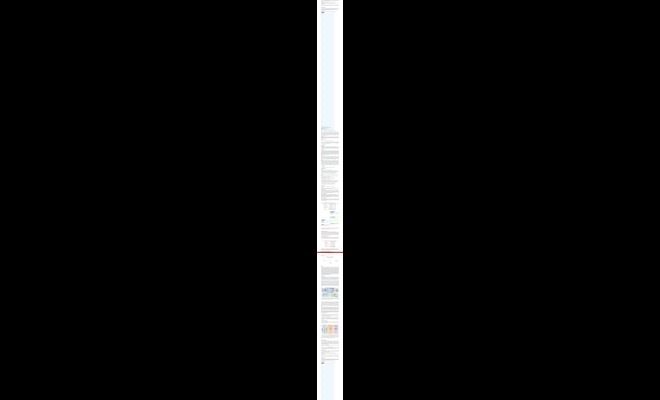
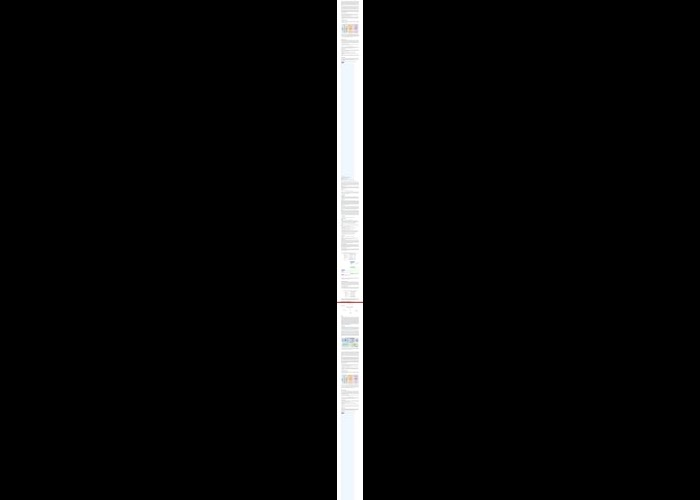
fix: correct images to Figure 2 and Table 1 as per paper content

diff --git a/2026-03-11_Agentic_Critical_Training.md b/2026-03-11_Agentic_Critical_Training.md
@@ -19,7 +19,7 @@
 ## 3. 核心技术方案
 ACT是一个两阶段的强化学习训练 pipeline，针对部分可观测马尔可夫决策过程（POMDP）场景下的LLM Agent设计：
 
-![ACT两阶段训练架构图（ArXiv官方原始图）](images/2026-03-11/figure1_arch.svg)
+![Figure 2: Overview of the ACT + RL training pipeline](images/2026-03-11/figure1_arch.png)
 
 ### 3.1 数据构造阶段
 对于训练集中的每个专家状态-动作对 $(s_i, a_i)$，构造对比样本：
@@ -47,7 +47,7 @@ $$R(s, y) = R_{acc} + R_{adm} + R_{fmt}$$
 ## 4. 实验结果与关键发现
 研究在三个不同的Agent基准测试集上验证了ACT的效果：ALFWorld（具身任务）、WebShop（网页导航）、ScienceWorld（科学实验），使用Qwen3-8B和Qwen3-4B模型。
 
-![各基准测试集性能对比结果（ArXiv官方原始图）](images/2026-03-11/figure2_results.svg)
+![Table 1: Main results on Qwen3-8B (%)](images/2026-03-11/figure2_results.png)
 
 ### 4.1 性能提升显著
 - 作为预训练阶段使用时，ACT比单纯模仿学习平均性能提升5.07个百分点，比单纯强化学习平均提升4.62个百分点
